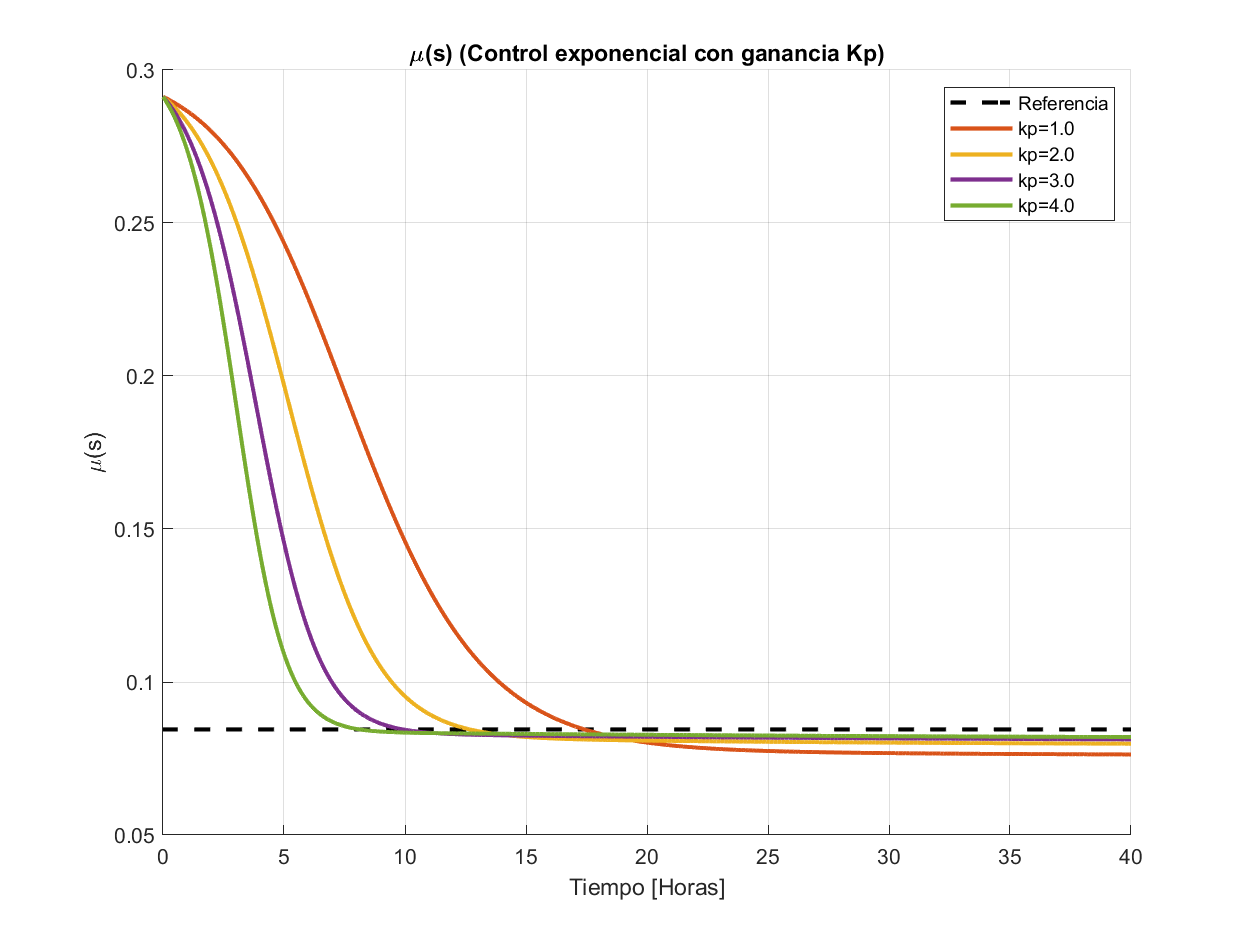
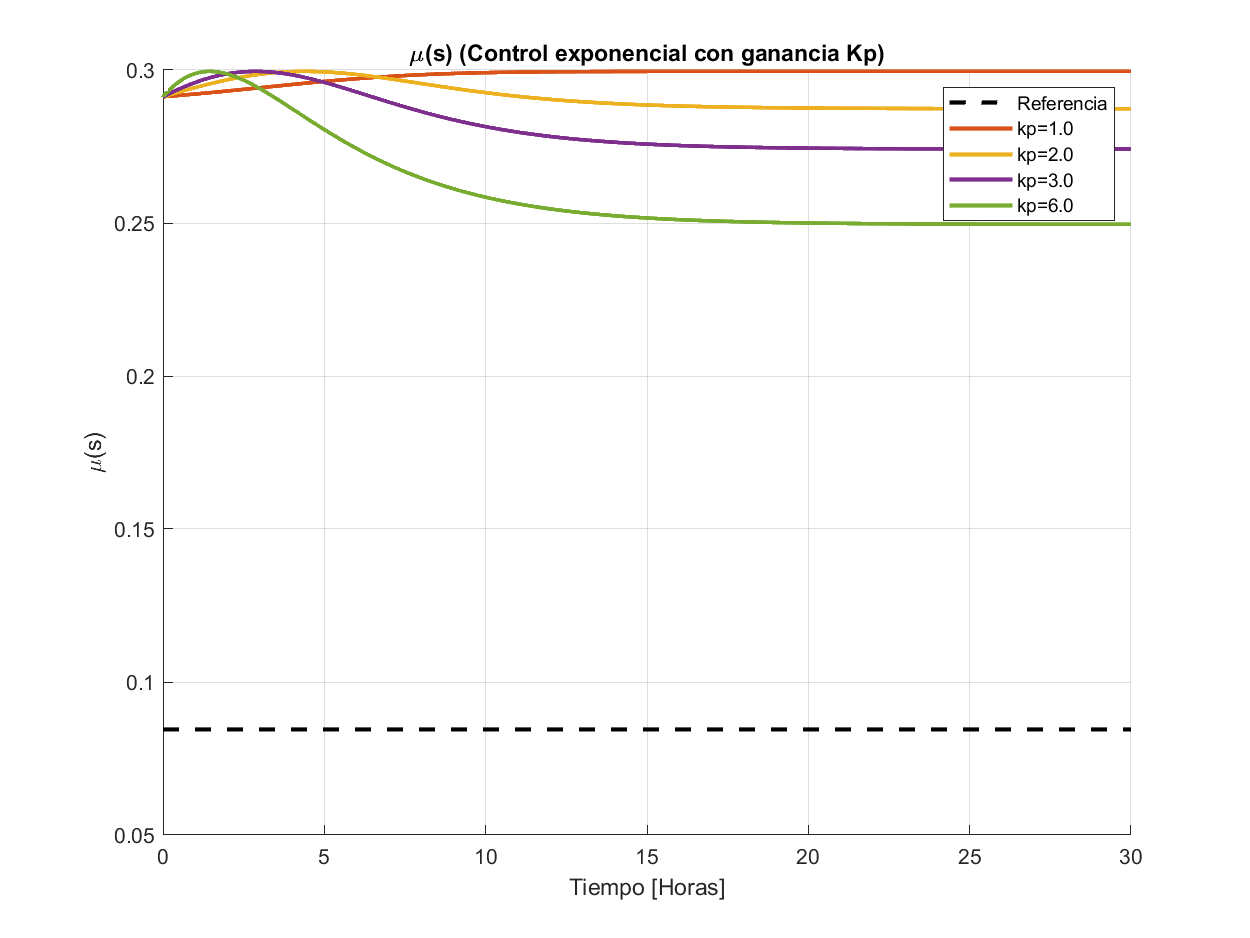
CSB. Haciendo TP3

diff --git a/Control de Sistemas Biologicos/TP4/Main_entregable.m b/Control de Sistemas Biologicos/TP4/Main_entregable.m
@@ -32,12 +32,15 @@ simConfig.FixedStep = num2str(timeStep);
 % Si se quieren generar los gráficos
 % si, se quieren gráficos -> 1
 % no, no se quieren -> 0
-shouldSavePlot = 0;
+shouldSavePlot = 1;
 
 %% Proceso sin ningún controlador (respuesta del sistema)
 % Solo para ver lo que está pasando con el sistema,
 % antes de empezar a controlar nada
 DatosModeloTP4
+
+sim_hours = 50; % la cantidad de horas que se van a simular
+simConfig.StopTime = num2str(sim_hours);
 
 D=0.1;
 params={1};
@@ -85,7 +88,7 @@ savePlot(shouldSavePlot, fig, 'sin_control_mu')
 
 DatosModeloTP4
 
-sim_hours = 50;
+sim_hours = 10;
 simConfig.StopTime = num2str(sim_hours);
 
 s_r=0.27; % s de referencia a operar
@@ -148,70 +151,6 @@ plot(time, getRelativeError(abs(error{1}), mu_r_vector), 'LineWidth', 3);
 
 legend(sprintf('(Sr=%.3f,mur=%.3f) (MSE=%.4f)', MSE{1}, params{1}(1), params{1}(2)));
 savePlot(shouldSavePlot, fig, 'exp_err')
-
-
-%% Alimentación exponencial: variación en el parámetro x0 en 20%
-
-% DatosModeloTP4
-% 
-% modelParameters.s_in=s_in;
-% modelParameters.x0=x0;
-% modelParameters.s_r = 0.1259;
-% modelParameters.v0=v0;
-% modelParameters.mu_r=mu_r;
-% 
-% params={x0*(1.2),x0*(0.8)}; % más/menos 20% del x0
-% mus=cell(length(params));
-% error=cell(length(params));
-% MSE=cell(length(params));
-% for i=1:length(params)
-% 
-%     modelParameters.x0=params{i};
-% 
-%     sim_out = sim('simulaciones/TP4_control_exp', simConfig);
-% 
-%     time = sim_out.tout;
-%     volume = sim_out.volume.Data;
-%     states = sim_out.states.Data;
-%     biomass = reshape(states(:,1), size(time));
-%     sustrates = reshape(states(:,2), size(time)).*volume;
-%     Do = sim_out.Do.Data;
-%     mus{i} = sim_out.mu_s.Data;
-% 
-%     mu_r_vector = ones(1, length(mus{i}))*mu_r;
-% 
-%     error{i}=(mu_r_vector-mus{i});
-%     MSE{i} = immse(reshape(mu_r_vector, size(mus{i})), mus{i});
-% end
-% 
-% fig = figure();
-% set(fig,'Position',[0 0 800 600]);
-% hold on; grid on;
-% title('\mu(s) (Alimentación exponencial) (x0±20%)');
-% xlabel('Tiempo [Horas]');
-% ylabel('\mu(s)');
-% plot(time, mu_r_vector, 'k--', 'LineWidth', 2);
-% plot(time, mus{1}, 'LineWidth', 2);
-% plot(time, mus{2}, 'LineWidth', 2);
-% 
-% legend('Referencia' ...
-%     ,sprintf('x0=%.1f', params{1}), ...
-%     sprintf('x0=%.1f', params{2}));
-% savePlot(shouldSavePlot, fig, 'exp_x0')
-% 
-% fig = figure();
-% set(fig,'Position',[0 0 800 600]);
-% hold on; grid on;
-% title('Error relativo del \mu(s) (x0±20%)');
-% xlabel('Tiempo [Horas]');
-% ylabel('Error relativo [%]');
-% ylim([0 100])
-% plot(time, getRelativeError(abs(error{1}), mu_r_vector), 'LineWidth', 3);
-% plot(time, getRelativeError(abs(error{2}), mu_r_vector), 'LineWidth', 3);
-% 
-% legend(sprintf('x0=%.1f (MSE=%.4f)', params{1}, MSE{1}), ...
-%     sprintf('x0=%.1f (MSE=%.4f)', params{2}, MSE{2}));
-% savePlot(shouldSavePlot, fig, 'exp_err_x0')
 
 %% Alimentación exponencial: variación en el parámetro ks1 en 20%
 
@@ -283,10 +222,8 @@ savePlot(shouldSavePlot, fig, 'exp_err_ks1')
 
 DatosModeloTP4
 
-sim_hours2 = 40;
-timeStep2 = 1e-2;
+sim_hours2 = 30;
 simConfig.StopTime = num2str(sim_hours2);
-simConfig.FixedStep = num2str(timeStep2);
 
 modelParameters.s_in=s_in;
 modelParameters.x0=x0;
@@ -294,7 +231,7 @@ modelParameters.s_r = 0.1259;
 modelParameters.mu_r=mu_r;
 % modelParameters.kp=0.1; % factor proporcional
 
-params={1,2,3,4};
+params={1,2,3,6};
 mus=cell(length(params));
 error=cell(length(params));
 MSE=cell(length(params));
@@ -344,7 +281,7 @@ hold on; grid on;
 title('Error relativo del \mu(s)');
 xlabel('Tiempo [Horas]');
 ylabel('Error relativo [%]');
-ylim([0 200])
+ylim([0 100])
 plot(time, getRelativeError(abs(error{1}), mu_r_vector), 'LineWidth', 3);
 plot(time, getRelativeError(abs(error{2}), mu_r_vector), 'LineWidth', 3);
 plot(time, getRelativeError(abs(error{3}), mu_r_vector), 'LineWidth', 3);
@@ -361,6 +298,9 @@ savePlot(shouldSavePlot, fig, 'exp_err_kp')
 % Se prueban diferentes ganancias de ki
 
 DatosModeloTP4
+
+sim_hours2 = 6;
+simConfig.StopTime = num2str(sim_hours2);
 
 modelParameters.s_in=s_in;
 modelParameters.x0=x0;

diff --git a/Control de Sistemas Biologicos/Informes/tp3.tex b/Control de Sistemas Biologicos/Informes/tp3.tex
@@ -255,7 +255,7 @@ Se simula el sistema sin ningún control a forma de referencia.
 Como se puede ver la biomasa tiene un comportamiento exponencial con respecto al tiempo, y el $\mu(s)$ se establece a un valor, que no es el deseado, por lo que se diseña un controlador para corregirlo.
 
 \section{Control exponencial}
-Se implementa un controlador que regula \(\mu(s)\) (a \(\mu(s_r)=\mu_r\)) mediante una alimentación exponencial de sustrato ($F_{in}=\lambda X=\lambda xV$), el mismo se obtuvo de considerar que se anula la dinámica del sustrato, además se agregan términos proporcionales e integrales al error:
+Se implementa un controlador que regula \(\mu(s)\) (a \(\mu(s_r)=\mu_r\)) mediante una alimentación exponencial de sustrato ($F_{in}=\lambda X=\lambda xV$), el mismo se obtuvo de considerar que se anula la dinámica del sustrato:
 
 \begin{equation*}
   \dot{s} = 0 = -k_{s1}\mu(s_r)x+\lambda x (s_{in}-s)
@@ -280,6 +280,8 @@ Se implementa un controlador que regula \(\mu(s)\) (a \(\mu(s_r)=\mu_r\)) median
   \caption{Error control con alimentación exponencial}
 \end{figure}
 
+Aunque si se varían los valores del parámetro $k_{s1}$ en un $20\%$ se puede observar que no se llega al valor deseado
+
 \begin{figure}[H]
   \centering
   \includegraphics[width=0.43\textwidth]{./Images_tp3/exp_ks1.png}
@@ -291,21 +293,11 @@ Se implementa un controlador que regula \(\mu(s)\) (a \(\mu(s_r)=\mu_r\)) median
   \caption{Error control con alimentación exponencial (se varía $k_{s1}$)}
 \end{figure}
 
-Como se puede observar, ahora con el lazo cerrado de realimentación exponencial logra hacer que $\mu(s)$ converga a $\mu_r$, pero al variar los parámetros del modelo se producen errores de convergencia. Para lo cual se agrega un término que es integrativo del error:
-\begin{equation*}
-  u(t) = D(t) = \frac{k_{s1}\mu(s_r)x+k_p(\mu(s)-\mu(s_r))}{(s_{in}-s)}
-\end{equation*}
-
-\begin{itemize}  
-    \item \(\mu(s)\) converge a un valor distinto al deseado (\(\mu_r(s)\)), con error inicial alto y dinámica lenta.  
-    \item \textit{Robustez}: Al variar \(x_0\) y \(k_{s1}\) en \(\pm 20\%\), el error cambia significativamente, indicando baja robustez.  
-\end{itemize}  
-
 \subsection{Controlador con acción proporcional (P)}  
-Al control anterior se le agrega un término proporcional (\(k_p\)) al error:
+Para solucionar el problema de robustez, al control anterior se le agrega un término proporcional (\(k_p\)) al error:
 
 \begin{equation}
-D = \frac{\mu_r X_0 k_{s1} e^{\mu_r t}}{(s_{\text{in}} - s_r) V} + \frac{k_p (\mu_r - \mu_s)}{(s_{\text{in}} - s_r)}
+D = \frac{k_{s1}\mu(s_r)x+k_p(\mu_r-\mu(s))}{s_{in}-s_r}
 \end{equation}
 
 \begin{figure}[H]
